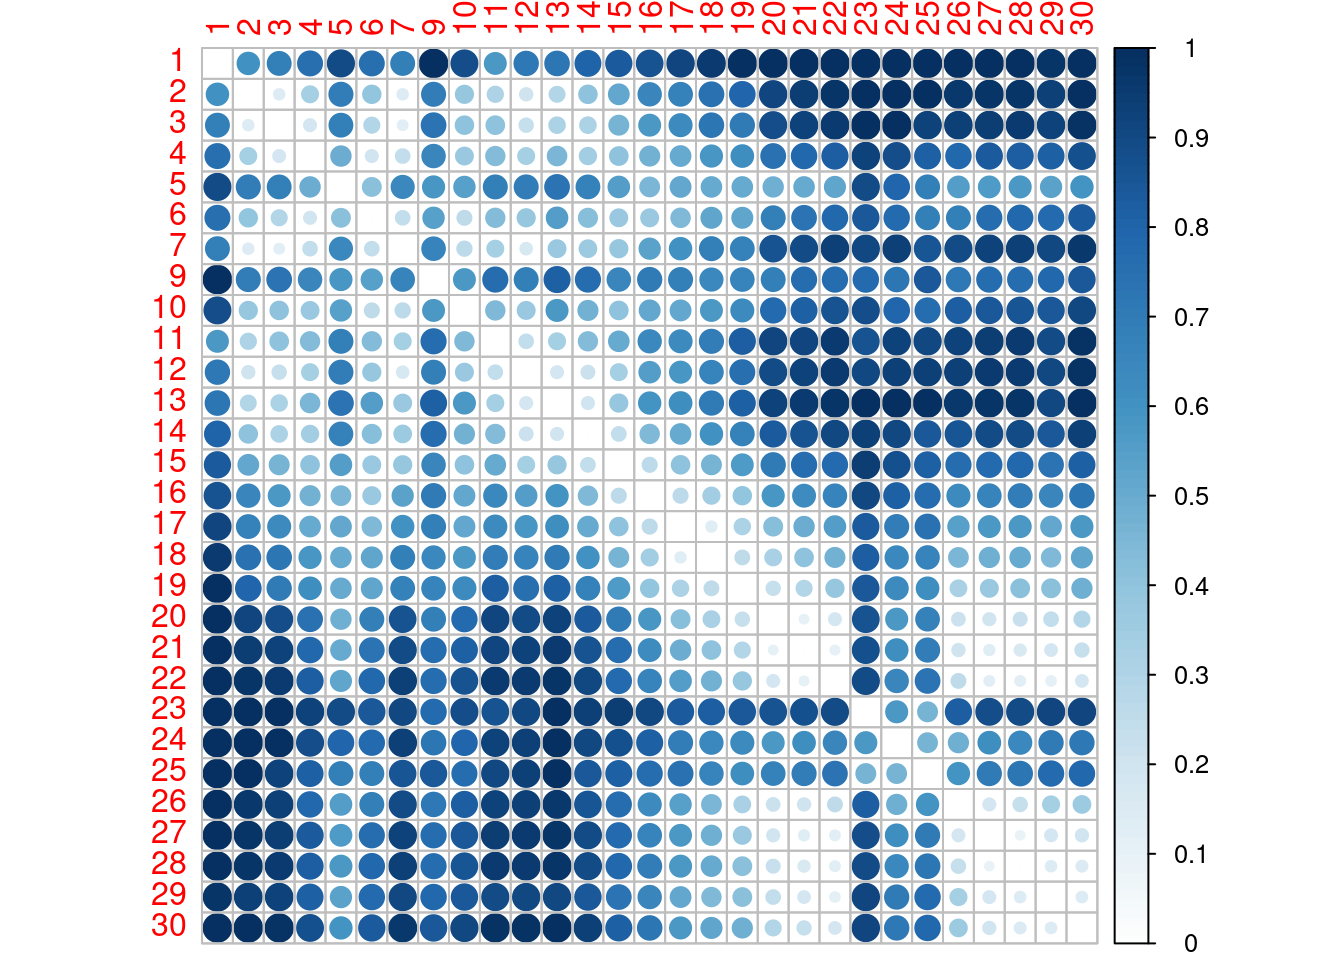
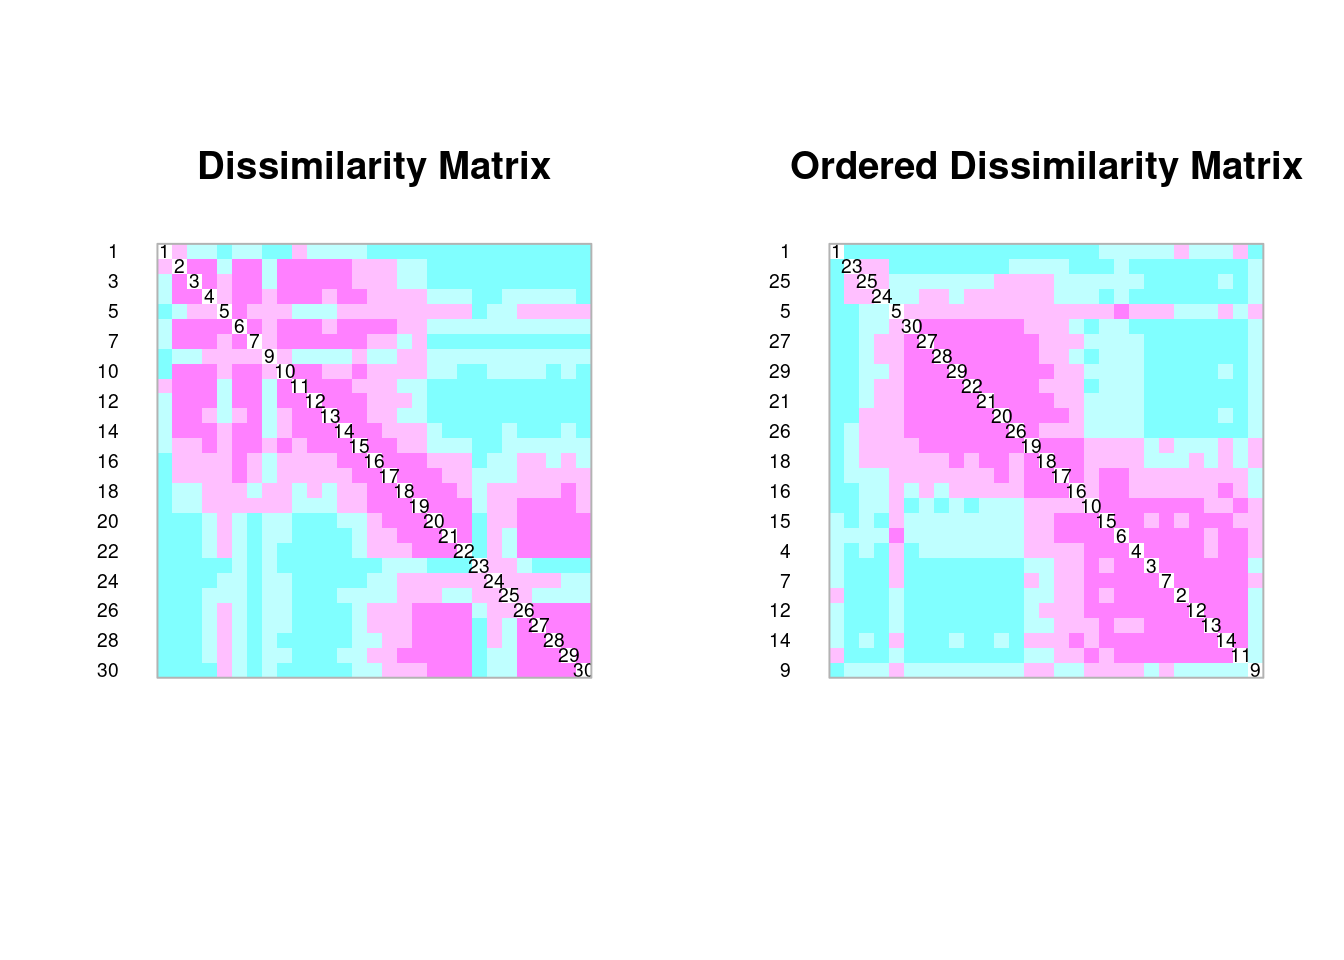
aula 2 - medidas de associação

diff --git a/docs/med_assoc.html b/docs/med_assoc.html
@@ -516,11 +516,9 @@ head(spe.dh)</code></pre>
 <h3>Exercício Q-Mode</h3>
 <p>Tente fazer uma representação gráfica de cada uma dessas matrizes com os diferentes índices e compará-la</p>
 <p>Escreva emaicxo seus códigos e interprete os resultados escrevendo embaixo</p>
-<pre class="r"><code>library(corrplot)</code></pre>
-<pre><code>## corrplot 0.84 loaded</code></pre>
-<pre class="r"><code>corrplot(as.matrix(spe.db), is.corr = FALSE) # usei essa função que gera correlogramas mais bonitos</code></pre>
+<pre class="r"><code>coldiss(spe.db, diag = TRUE)</code></pre>
 <p><img src="med_assoc_files/figure-html/unnamed-chunk-9-1.png" width="672" /></p>
-<pre class="r"><code>corrplot(as.matrix(spe.dh), is.corr = FALSE) # usei essa função que gera correlogramas mais bonitos</code></pre>
+<pre class="r"><code>coldiss(spe.dh, diag = TRUE)</code></pre>
 <p><img src="med_assoc_files/figure-html/unnamed-chunk-10-1.png" width="672" /></p>
 </div>
 </div>
@@ -555,6 +553,53 @@ head(spe.dh)</code></pre>
 <p>Neste trabalho de <a href="https://onlinelibrary.wiley.com/doi/pdf/10.1111/j.1472-4642.2010.00739.x"><em>Lobo et al (2011)</em></a> mostramos como a Mata Atlântica vem sofrendo com o processod e homogeneização biótica decorrente da perturbação antrópica. Testamos isso justamente com uma matriz de similaridade de espécies qque agrupamos em 12 tipos de fitofisionomias e em dois períodos de tempo (prá-1980 e pós-1980). Nossos dados eram apenas de presença e ausência em localidades de coleta, através de dados de herbário. Dê uma olhada no artigo e veja como dados de ocorrência foram usados.</p>
 <p><img src="images/beta.png" alt="Como a Beta-diversidade pode informar sobre a conservação?" /> Neste artigo <a href="https://www.cell.com/trends/ecology-evolution/fulltext/S0169-5347(15)00289-X">Scholar et al (2016)</a> mostram como o domínio conceitua da beta-diversidade é importante para pensar e planejar a conservação da biodiversidade. Aqui não te nada de índices nem medidas mas conceitos. Esses conceitos dão sentido às perguntas que fazemos na ciência e ajudam a escolher as melhores métricas.</p>
 <p>Os desdrobamentos dos conceitos e aplicações da beta-diversidade são fundamentais para uma correta aplicação das métricas de assossiação. Índices de similaridade e medidas de distância são maneiras de quantificar diversidade beta entre comunidades biológicas.</p>
+</div>
+<div id="q-mode-para-dados-ambientais" class="section level1">
+<h1>Q mode para dados ambientais</h1>
+<p>As vairáveis ambientais <em>env</em> são dados contínuos que não possuem “problema” dos duplos zeros. Potanto, as medidas de distância são perfeitamente aplicáveis a elas. Dessas, a distância euclidiana, que á a distãncia entre dois pontos medida pela clássica fórmula de Pitágoras, é a medida de escolha inicial.</p>
+<pre class="r"><code>env2&lt;- env[,-1] # remover &#39;dfs&#39; que é uma variável espacial, não ambiental
+env.de&lt;-dist(scale(env2)) # use a função &quot;scale&quot; para transformar osdados em z-scores, já que dados de magnitude muito diferentes podem criar disorções no cálculo de distâncias.
+corrplot(as.matrix(env.de), is.corr = FALSE) </code></pre>
+<p><img src="med_assoc_files/figure-html/unnamed-chunk-11-1.png" width="672" /></p>
+<p>Lembrem-se que nessa matriz, os números são as amostras, que começam em 1 na nascente do rio e terminam em 30 no ponto mais distante. Conseguem ver algum padrão? tentem entender a matriz, dê exemplos de pontos muitos parecidos e outros muito dissimilares. Será que você está lendo a matriz corretamente?</p>
+<div id="distâncias-geográficas" class="section level2">
+<h2>Distâncias geográficas</h2>
+<pre class="r"><code>spa.de&lt;-dist(spa)
+coldiss(spa.de, diag = TRUE)</code></pre>
+<p><img src="med_assoc_files/figure-html/unnamed-chunk-12-1.png" width="672" /></p>
+<pre class="r"><code>dfs.df&lt;-as.data.frame(env$dfs, row.names = rownames(env))
+riv.de&lt;-dist(dfs.df)
+coldiss(riv.de, diag = TRUE)</code></pre>
+<p><img src="med_assoc_files/figure-html/unnamed-chunk-13-1.png" width="672" /></p>
+</div>
+</div>
+<div id="r-mode-para-dados-ambientais-ou-espécies" class="section level1">
+<h1>R mode para dados ambientais ou espécies</h1>
+<p>A lógica aqui é saber quais variáveis ou espécies estão correlacionadas e não o quão similar cada par de site ou espécies pode ser. Nesse caso, usamos basicamente testes de <em>correlação</em> ou <em>covariança</em>. Essa informação é poderosa, pois pode tanto expressar gradientes ambientais complexos (várias variáveis ambientais se comportnaod de maneira similar) ou a co-ocorrência de espécies. Vejamos:</p>
+<div id="variáveis-ambientais" class="section level2">
+<h2>Variáveis ambientais</h2>
+<pre class="r"><code>cor.env&lt;-cor(env2)
+coldiss(cor.env, diag = T)</code></pre>
+<p><img src="med_assoc_files/figure-html/unnamed-chunk-14-1.png" width="672" /></p>
+<p>Consegue ideintificar grupos de variáveis ambientais que covariam?</p>
+</div>
+<div id="espécies-que-covariam" class="section level2">
+<h2>Espécies que covariam</h2>
+<pre class="r"><code>spe.t &lt;- t(spe)
+# Chi-square pre-transformation followed by Euclidean distance
+spe.t.chi &lt;- decostand(spe.t, &quot;chi.square&quot;)
+spe.t.D16 &lt;- dist(spe.t.chi)
+coldiss(spe.t.D16, diag = TRUE)</code></pre>
+<p><img src="med_assoc_files/figure-html/unnamed-chunk-15-1.png" width="672" /></p>
+<p>Consegue identificar grupos de espécies?</p>
+</div>
+</div>
+<div id="em-resumo" class="section level1">
+<h1>Em resumo…</h1>
+<div class="figure">
+<img src="images/table_simi2.png" alt="" />
+<p class="caption">Tabela de decisão para uso de medidas de similaridade</p>
+</div>
 </div>
 
 

diff --git a/docs/slides/slides_aula1.html b/docs/slides/slides_aula1.html
@@ -4,7 +4,7 @@
     <title>Ecologia Numérica</title>
     <meta charset="utf-8" />
     <meta name="author" content="Felipe Melo" />
-    <meta name="date" content="2021-03-09" />
+    <meta name="date" content="2021-03-17" />
     <script src="slides_aula1_files/header-attrs-2.6/header-attrs.js"></script>
     <link href="slides_aula1_files/remark-css-0.0.1/default.css" rel="stylesheet" />
     <link href="slides_aula1_files/remark-css-0.0.1/default-fonts.css" rel="stylesheet" />
@@ -28,7 +28,7 @@ class: center, middle, inverse, title-slide
 ## Aula 1 - Explorando dados
 ### Felipe Melo
 ### Laboratório de Ecologia Aplicada - UFPE
-### 2021-03-09
+### 2021-03-17
 
 ---
 
@@ -64,20 +64,20 @@ class: center, middle, inverse, title-slide
 ### Estão no livro **Numerical Ecology with R**
 
 ```
-##   Cogo Satr Phph Babl Thth Teso Chna Pato Lele Sqce Baba Albi Gogo Eslu Pefl
-## 1    0    3    0    0    0    0    0    0    0    0    0    0    0    0    0
-## 2    0    5    4    3    0    0    0    0    0    0    0    0    0    0    0
-## 3    0    5    5    5    0    0    0    0    0    0    0    0    0    1    0
-## 4    0    4    5    5    0    0    0    0    0    1    0    0    1    2    2
-## 5    0    2    3    2    0    0    0    0    5    2    0    0    2    4    4
-## 6    0    3    4    5    0    0    0    0    1    2    0    0    1    1    1
-##   Rham Legi Scer Cyca Titi Abbr Icme Gyce Ruru Blbj Alal Anan
-## 1    0    0    0    0    0    0    0    0    0    0    0    0
-## 2    0    0    0    0    0    0    0    0    0    0    0    0
-## 3    0    0    0    0    0    0    0    0    0    0    0    0
-## 4    0    0    0    0    1    0    0    0    0    0    0    0
-## 5    0    0    2    0    3    0    0    0    5    0    0    0
-## 6    0    0    0    0    2    0    0    0    1    0    0    0
+##   Cogo Satr Phph Babl Thth Teso Chna Pato Lele Sqce Baba Albi Gogo Eslu Pefl Rham Legi Scer Cyca Titi Abbr Icme Gyce Ruru Blbj
+## 1    0    3    0    0    0    0    0    0    0    0    0    0    0    0    0    0    0    0    0    0    0    0    0    0    0
+## 2    0    5    4    3    0    0    0    0    0    0    0    0    0    0    0    0    0    0    0    0    0    0    0    0    0
+## 3    0    5    5    5    0    0    0    0    0    0    0    0    0    1    0    0    0    0    0    0    0    0    0    0    0
+## 4    0    4    5    5    0    0    0    0    0    1    0    0    1    2    2    0    0    0    0    1    0    0    0    0    0
+## 5    0    2    3    2    0    0    0    0    5    2    0    0    2    4    4    0    0    2    0    3    0    0    0    5    0
+## 6    0    3    4    5    0    0    0    0    1    2    0    0    1    1    1    0    0    0    0    2    0    0    0    1    0
+##   Alal Anan
+## 1    0    0
+## 2    0    0
+## 3    0    0
+## 4    0    0
+## 5    0    0
+## 6    0    0
 ```
 
 ---
@@ -144,9 +144,8 @@ colnames(spe) # aqui até os nomes abravidaos das espécies nós temos
 ```
 
 ```
-##  [1] "Cogo" "Satr" "Phph" "Babl" "Thth" "Teso" "Chna" "Pato" "Lele" "Sqce"
-## [11] "Baba" "Albi" "Gogo" "Eslu" "Pefl" "Rham" "Legi" "Scer" "Cyca" "Titi"
-## [21] "Abbr" "Icme" "Gyce" "Ruru" "Blbj" "Alal" "Anan"
+##  [1] "Cogo" "Satr" "Phph" "Babl" "Thth" "Teso" "Chna" "Pato" "Lele" "Sqce" "Baba" "Albi" "Gogo" "Eslu" "Pefl" "Rham" "Legi" "Scer"
+## [19] "Cyca" "Titi" "Abbr" "Icme" "Gyce" "Ruru" "Blbj" "Alal" "Anan"
 ```
 
 ---

diff --git a/slides/slides_aula1.html b/slides/slides_aula1.html
@@ -4,7 +4,7 @@
     <title>Ecologia Numérica</title>
     <meta charset="utf-8" />
     <meta name="author" content="Felipe Melo" />
-    <meta name="date" content="2021-03-09" />
+    <meta name="date" content="2021-03-17" />
     <script src="slides_aula1_files/header-attrs-2.6/header-attrs.js"></script>
     <link href="slides_aula1_files/remark-css-0.0.1/default.css" rel="stylesheet" />
     <link href="slides_aula1_files/remark-css-0.0.1/default-fonts.css" rel="stylesheet" />
@@ -28,7 +28,7 @@ class: center, middle, inverse, title-slide
 ## Aula 1 - Explorando dados
 ### Felipe Melo
 ### Laboratório de Ecologia Aplicada - UFPE
-### 2021-03-09
+### 2021-03-17
 
 ---
 
@@ -64,20 +64,20 @@ class: center, middle, inverse, title-slide
 ### Estão no livro **Numerical Ecology with R**
 
 ```
-##   Cogo Satr Phph Babl Thth Teso Chna Pato Lele Sqce Baba Albi Gogo Eslu Pefl
-## 1    0    3    0    0    0    0    0    0    0    0    0    0    0    0    0
-## 2    0    5    4    3    0    0    0    0    0    0    0    0    0    0    0
-## 3    0    5    5    5    0    0    0    0    0    0    0    0    0    1    0
-## 4    0    4    5    5    0    0    0    0    0    1    0    0    1    2    2
-## 5    0    2    3    2    0    0    0    0    5    2    0    0    2    4    4
-## 6    0    3    4    5    0    0    0    0    1    2    0    0    1    1    1
-##   Rham Legi Scer Cyca Titi Abbr Icme Gyce Ruru Blbj Alal Anan
-## 1    0    0    0    0    0    0    0    0    0    0    0    0
-## 2    0    0    0    0    0    0    0    0    0    0    0    0
-## 3    0    0    0    0    0    0    0    0    0    0    0    0
-## 4    0    0    0    0    1    0    0    0    0    0    0    0
-## 5    0    0    2    0    3    0    0    0    5    0    0    0
-## 6    0    0    0    0    2    0    0    0    1    0    0    0
+##   Cogo Satr Phph Babl Thth Teso Chna Pato Lele Sqce Baba Albi Gogo Eslu Pefl Rham Legi Scer Cyca Titi Abbr Icme Gyce Ruru Blbj
+## 1    0    3    0    0    0    0    0    0    0    0    0    0    0    0    0    0    0    0    0    0    0    0    0    0    0
+## 2    0    5    4    3    0    0    0    0    0    0    0    0    0    0    0    0    0    0    0    0    0    0    0    0    0
+## 3    0    5    5    5    0    0    0    0    0    0    0    0    0    1    0    0    0    0    0    0    0    0    0    0    0
+## 4    0    4    5    5    0    0    0    0    0    1    0    0    1    2    2    0    0    0    0    1    0    0    0    0    0
+## 5    0    2    3    2    0    0    0    0    5    2    0    0    2    4    4    0    0    2    0    3    0    0    0    5    0
+## 6    0    3    4    5    0    0    0    0    1    2    0    0    1    1    1    0    0    0    0    2    0    0    0    1    0
+##   Alal Anan
+## 1    0    0
+## 2    0    0
+## 3    0    0
+## 4    0    0
+## 5    0    0
+## 6    0    0
 ```
 
 ---
@@ -144,9 +144,8 @@ colnames(spe) # aqui até os nomes abravidaos das espécies nós temos
 ```
 
 ```
-##  [1] "Cogo" "Satr" "Phph" "Babl" "Thth" "Teso" "Chna" "Pato" "Lele" "Sqce"
-## [11] "Baba" "Albi" "Gogo" "Eslu" "Pefl" "Rham" "Legi" "Scer" "Cyca" "Titi"
-## [21] "Abbr" "Icme" "Gyce" "Ruru" "Blbj" "Alal" "Anan"
+##  [1] "Cogo" "Satr" "Phph" "Babl" "Thth" "Teso" "Chna" "Pato" "Lele" "Sqce" "Baba" "Albi" "Gogo" "Eslu" "Pefl" "Rham" "Legi" "Scer"
+## [19] "Cyca" "Titi" "Abbr" "Icme" "Gyce" "Ruru" "Blbj" "Alal" "Anan"
 ```
 
 ---

diff --git a/docs/Journal.html b/docs/Journal.html
@@ -407,7 +407,7 @@ div.tocify {
 <p>Esse é um arquivo “.Rmd”. Ele é o arquivo base do Rmarkdown e consegue misturar linguagens diferentes como HTML, R, CSS e outras. Há inúmeros guias e tutoriais sobre como manejar o RMarkdwonw para criar todo tipo de produtos, desde sires até mesmo artigos completos e apresentações.</p>
 <div id="aula-1" class="section level1">
 <h1>Aula 1</h1>
-<p>2018 | 7 | 23 Last compiled: 2021-03-12</p>
+<p>2018 | 7 | 23 Last compiled: 2021-03-17</p>
 <p>Notice that whatever you define as a top level header, automatically gets put into the table of contents bar on the left.</p>
 <div id="second-level-header" class="section level2">
 <h2>Second level header</h2>
@@ -420,7 +420,7 @@ div.tocify {
 </div>
 <div id="my-second-post-note-the-order" class="section level1">
 <h1>My second post (note the order)</h1>
-<p>2018 | 7 | 23 Last compiled: 2021-03-12</p>
+<p>2018 | 7 | 23 Last compiled: 2021-03-17</p>
 <p>I’m writing this tutorial going from the top down. And, this is how it will be printed. So, notice the second post is second in the list. If you want your most recent post to be at the top, then make a new post starting at the top. If you want the oldest first, do, then keep adding to the bottom</p>
 </div>
 <div id="adding-r-stuff" class="section level1">
